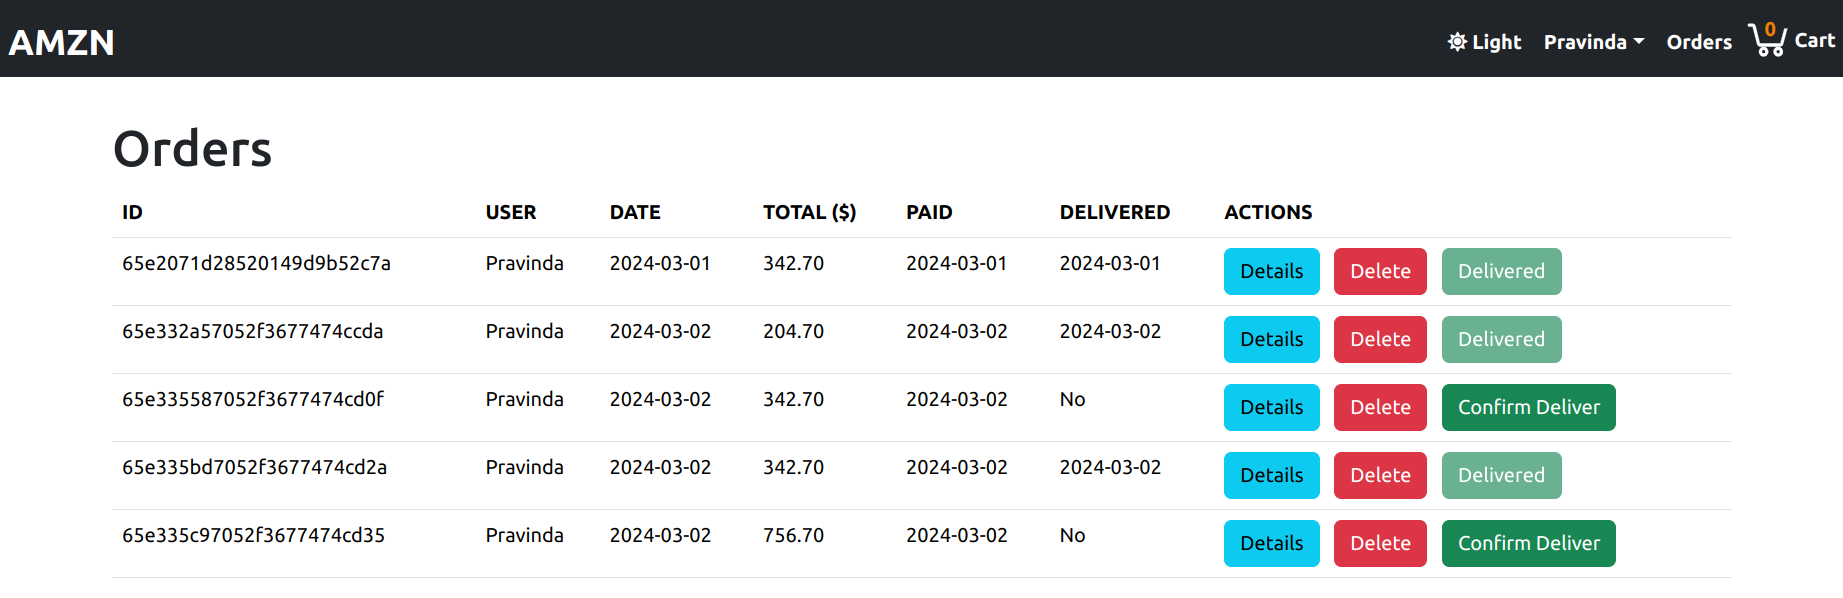
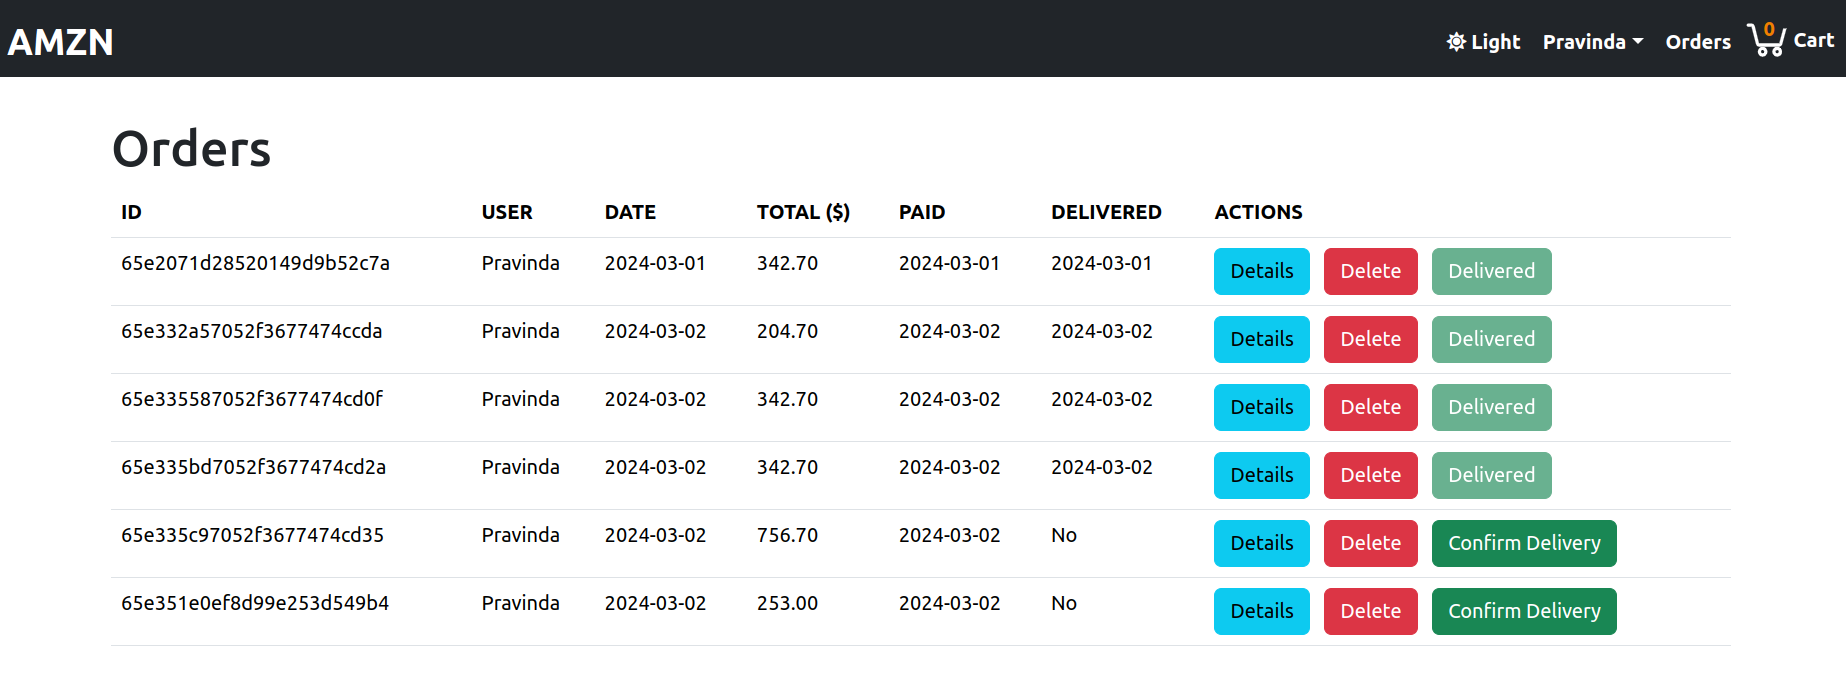
correct deliver->delivery

diff --git a/frontend/src/pages/orderListPage.tsx b/frontend/src/pages/orderListPage.tsx
@@ -109,7 +109,7 @@ export default function OrderListPage() {
                                             variant="success"
                                             onClick={() => handleDeliverConfirmation(order._id)}
                                         >
-                                           Confirm Deliver
+                                            Confirm Delivery
                                         </Button>
                                     ) : (
                                         <Button variant="success" disabled>
@@ -125,7 +125,7 @@ export default function OrderListPage() {
                     <Modal show={showConfirmation} onHide={() => setShowConfirmation(false)}>
                         <Modal.Header closeButton>
                             <Modal.Title>
-                                {orderIdToDelete ? "Confirm Delete" : "Confirm Deliver"}
+                                {orderIdToDelete ? "Confirm Delete" : "Confirm Delivery"}
                             </Modal.Title>
                         </Modal.Header>
                         <Modal.Body>
@@ -147,7 +147,7 @@ export default function OrderListPage() {
                                     }
                                 }}
                             >
-                                {orderIdToDelete ? "Delete" : "Confirm Deliver"}
+                                {orderIdToDelete ? "Delete" : "Confirm Delivery"}
                             </Button>
                         </Modal.Footer>
                     </Modal>

diff --git a/frontend/src/pages/orderPage.tsx b/frontend/src/pages/orderPage.tsx
@@ -158,7 +158,7 @@ export default function OrderPage() {
                                             onClick={deliverHandler}
                                             disabled={loadingDeliver}
                                         >
-                                            {loadingDeliver ? "Delivering..." : "Confirm Deliver"}
+                                            {loadingDeliver ? "Delivering..." : "Confirm Delivery"}
                                         </Button>
                                     )}
                                 </ListGroup.Item>
